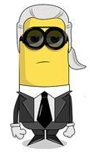
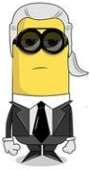
all images and character names updated

diff --git a/code/script.js b/code/script.js
@@ -83,8 +83,8 @@ const CHARACTERS = [
     smoker: false,    
   },
   {
-    name: 'Jaqueline',
-    img: 'images/jaqueline.svg',
+    name: 'Donatella',
+    img: 'images/donatella.png',
     hairColor: 'orange',
     eyeColor: 'green',
     glasses: true,
@@ -92,8 +92,8 @@ const CHARACTERS = [
     smoker: false,
   },
   {
-    name: 'Jazebelle',
-    img: 'images/jazebelle.svg',
+    name: 'Anna B',
+    img: 'images/annaB.png',
     hairColor: 'purple',
     eyeColor: 'hidden',
     glasses: true,
@@ -101,8 +101,8 @@ const CHARACTERS = [
     smoker: true,    
   },
   {
-    name: 'Jean',
-    img: 'images/jean.svg',
+    name: 'Victoria',
+    img: 'images/victoria.png',
     hairColor: 'brown',
     eyeColor: 'blue',
     glasses: true,
@@ -110,8 +110,8 @@ const CHARACTERS = [
     smoker: true,    
   },
   {
-    name: 'Jeane',
-    img: 'images/jeane.svg',
+    name: 'Valentino',
+    img: 'images/valentino.png',
     hairColor: 'brown',
     eyeColor: 'green',
     glasses: true,
@@ -119,8 +119,8 @@ const CHARACTERS = [
     smoker: false,
   },
   {
-    name: 'Jed',
-    img: 'images/jed.svg',
+    name: 'Iris',
+    img: 'images/iris.png',
     hairColor: 'orange',
     eyeColor: 'green',
     glasses: true,
@@ -128,8 +128,8 @@ const CHARACTERS = [
     smoker: true,    
   },
   {
-    name: 'Jenni',
-    img: 'images/jenni.svg',
+    name: 'Derek',
+    img: 'images/derek.png',
     hairColor: 'white',
     eyeColor: 'hidden',
     glasses: false,
@@ -137,8 +137,8 @@ const CHARACTERS = [
     smoker: false,
   },
   {
-    name: 'Jeri',
-    img: 'images/jeri.svg',
+    name: 'Franca',
+    img: 'images/franca.png',
     hairColor: 'orange',
     eyeColor: 'green',
     glasses: true,
@@ -146,8 +146,8 @@ const CHARACTERS = [
     smoker: false,
   },
   {
-    name: 'Jerry',
-    img: 'images/jerry.svg',
+    name: 'Grace',
+    img: 'images/grace.png',
     hairColor: 'hidden',
     eyeColor: 'blue',
     glasses: false,
@@ -155,8 +155,8 @@ const CHARACTERS = [
     smoker: false,
   },
   {
-    name: 'Jess',
-    img: 'images/jess.svg',
+    name: 'Isabel',
+    img: 'images/isabel.png',
     hairColor: 'black',
     eyeColor: 'blue',
     glasses: true,
@@ -164,8 +164,8 @@ const CHARACTERS = [
     smoker: false,
   },
   {
-    name: 'Jocelyn',
-    img: 'images/jocelyn.svg',
+    name: 'Susie',
+    img: 'images/susie.png',
     hairColor: 'black',
     eyeColor: 'brown',
     glasses: true,
@@ -173,8 +173,8 @@ const CHARACTERS = [
     smoker: false,
   },
   {
-    name: 'Jon',
-    img: 'images/jon.svg',
+    name: 'Man Repeller',
+    img: 'images/ManRepeller.png',
     hairColor: 'brown',
     eyeColor: 'green',
     glasses: true,
@@ -182,8 +182,8 @@ const CHARACTERS = [
     smoker: false,
   },
   {
-    name: 'Jordan',
-    img: 'images/jordan.svg',
+    name: 'Jules',
+    img: 'images/jules.png',
     hairColor: 'yellow',
     eyeColor: 'hidden',
     glasses: true,
@@ -191,8 +191,8 @@ const CHARACTERS = [
     smoker: false,
   },
   {
-    name: 'Josephine',
-    img: 'images/josephine.svg',
+    name: 'Garance',
+    img: 'images/garance.png',
     hairColor: 'grey',
     eyeColor: 'brown',
     glasses: false,
@@ -200,8 +200,8 @@ const CHARACTERS = [
     smoker: false,
   },
   {
-    name: 'Josh',
-    img: 'images/josh.svg',
+    name: 'Bryan',
+    img: 'images/bryan.png',
     hairColor: 'yellow',
     eyeColor: 'green',
     glasses: false,
@@ -209,8 +209,8 @@ const CHARACTERS = [
     smoker: false,    
   },
   {
-    name: 'Jude',
-    img: 'images/jude.svg',
+    name: 'Sartorialist',
+    img: 'images/sartorialist.png',
     hairColor: 'black',
     eyeColor: 'green',
     glasses: false,
@@ -218,8 +218,8 @@ const CHARACTERS = [
     smoker: false,
   },
   {
-    name: 'Julie',
-    img: 'images/julie.svg',
+    name: 'Betty',
+    img: 'images/betty.png',
     hairColor: 'black',
     eyeColor: 'brown',
     glasses: true,
